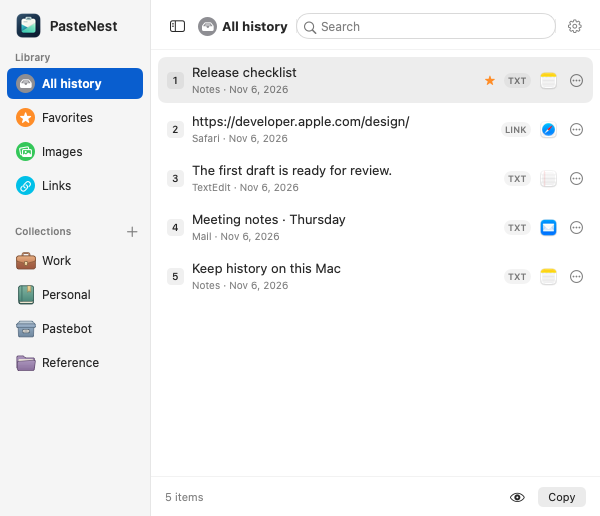
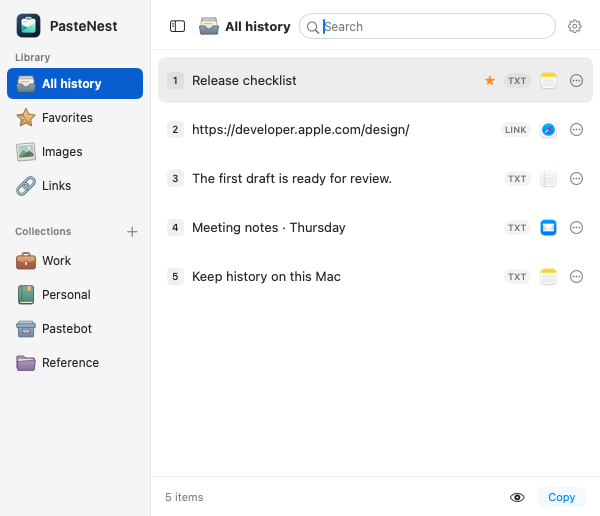
Document Get Info and the redesigned PasteNest library

diff --git a/README.md b/README.md
@@ -4,7 +4,7 @@
 
 A local clipboard history for macOS. Open the menu-bar picker, find something you copied, and click once to paste it back into the app you were using.
 
-**[Download PasteNest 1.3.1 for Apple Silicon](https://github.com/shrotshahariar/PasteNest/releases/download/v1.3.1/PasteNest-1.3.1-macOS-arm64.zip)** · [Release notes and checksum](https://github.com/shrotshahariar/PasteNest/releases/tag/v1.3.1)
+**[Download PasteNest 1.4 for Apple Silicon](https://github.com/shrotshahariar/PasteNest/releases/download/v1.4.0/PasteNest-1.4-macOS-arm64.zip)** · [Release notes and checksum](https://github.com/shrotshahariar/PasteNest/releases/tag/v1.4.0)
 
 <p><img src="picker.png" width="600" alt="PasteNest's light quick-paste window showing sample clips and their source apps"></p>
 
@@ -15,6 +15,12 @@ A local clipboard history for macOS. Open the menu-bar picker, find something yo
 3. Press **⌘⇧Space**. Search or use the arrow keys, then click a row or press Return. The picker opens on the display under your pointer.
 
 For automatic insertion, allow the installed app under **System Settings → Privacy & Security → Accessibility**. Some macOS versions call this **Device Control and Data Access**. You can also use **Copy** and paste manually. This release is ad-hoc signed and has not been notarized by Apple. Gatekeeper may block the downloaded build.
+
+## Get Info
+
+Open a clip’s **…** menu or right-click it, then choose **Get Info**. Use **Preview** to read the clip and **Done** to return to the picker.
+
+<p><img src="get-info.png" width="310" alt="The Get Info tab for a sample TextEdit clip, showing its source, last copy time, type, collection, and character count."></p>
 
 ## In the menu bar
 
@@ -32,7 +38,7 @@ Open the **…** menu on a text or link clip and choose **Paste with Filter**. E
 
 ## In the picker
 
-The picker opens with a library sidebar. Click a collection or a library filter to narrow the list. Look for the leather folio for Work, the bookmarked journal for Personal, and the archive box for Pastebot imports. Other collections have tabbed folders with a color that stays consistent across launches. Each row shows the source app and copy date. The sidebar button beside Search switches between library and compact views and remembers your choice.
+The picker opens with a library sidebar. Click a collection or a library filter to narrow the list. Look for the leather folio for Work, the bookmarked journal for Personal, and the archive box for Pastebot imports. Other collections have tabbed folders with a color that stays consistent across launches. Rows show the clip and its source app icon. Choose **… → Get Info** for the source app name, last copied date and time, clip type, and collection. Text and links also show a character count. Switch to **Preview** in the same popover to see the content. The sidebar button beside Search switches between library and compact views and remembers your choice.
 
 - Search by text, source app, or collection. Source logos help distinguish similar entries.
 - Use a row’s **…** menu to preview, favorite, organize, or delete a clip.
@@ -40,9 +46,9 @@ The picker opens with a library sidebar. Click a collection or a library filter 
 - Open the gear to choose a shortcut, switch appearance, pause capture, or ignore an app.
 - Click outside to dismiss. Capture continues in the menu bar until you quit.
 
-<details><summary>Collection icons in light and dark</summary>
+<details><summary>Library and collection icons in light and dark</summary>
 
-<img src="collections.png" width="300" alt="Work folio, Personal journal, Pastebot archive box, and a custom folder in light and dark mode.">
+<img src="sidebar.png" width="300" alt="Library and collection artwork in both appearances, including a paper tray, brass star, photo print and chain links.">
 
 </details>
 
